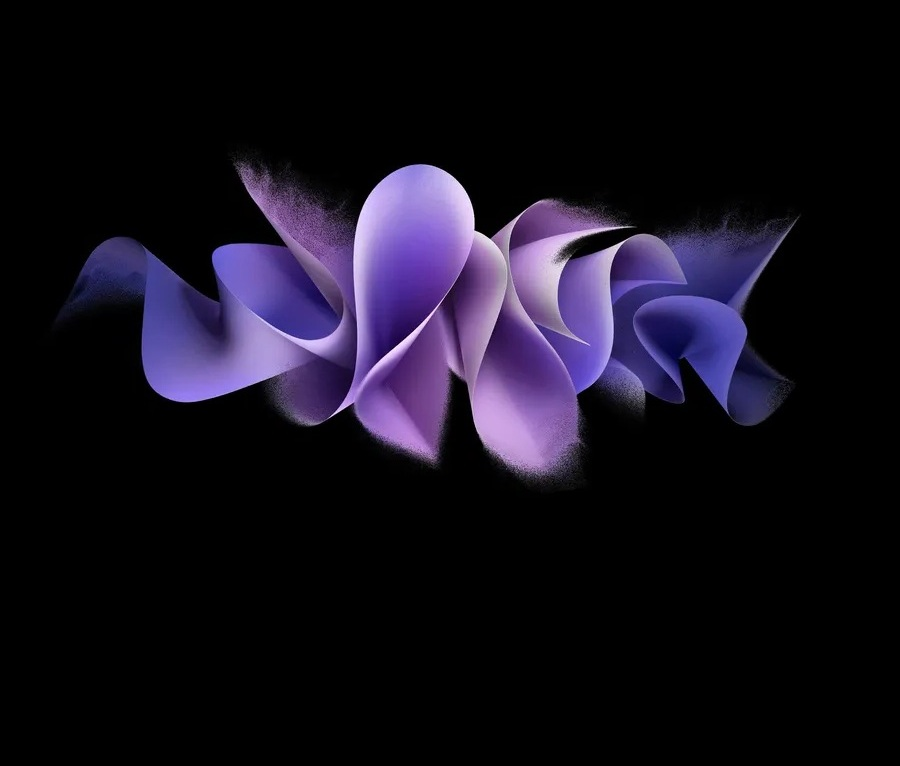
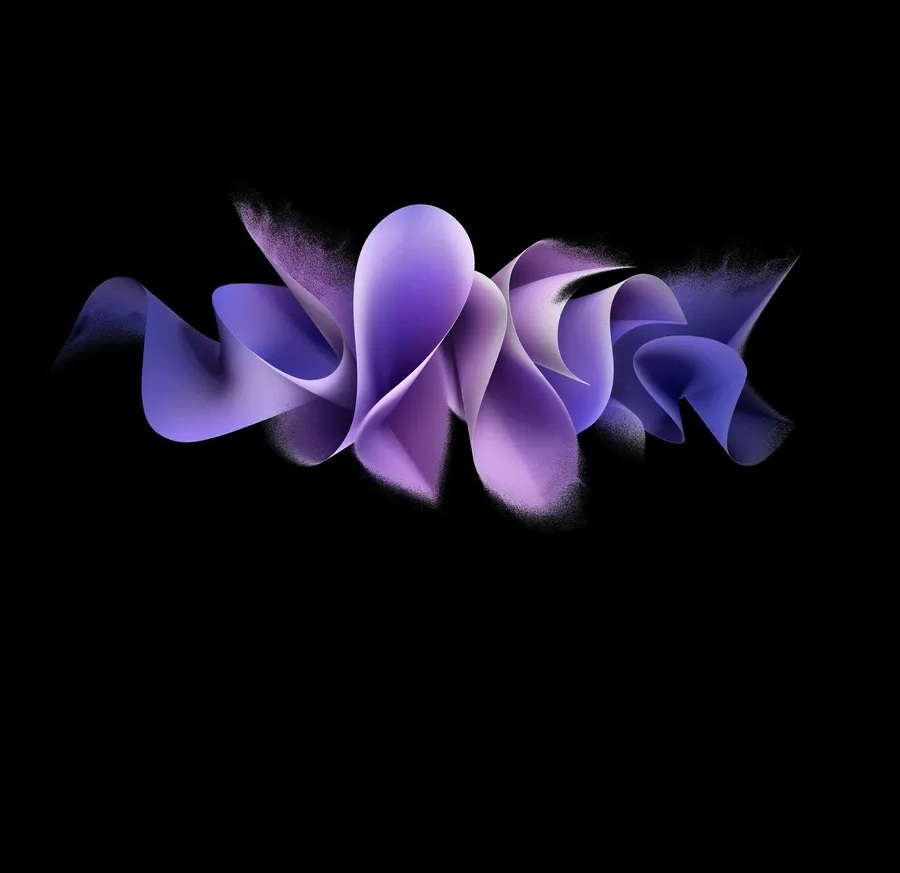
portfolio

diff --git a/src/css/style.css b/src/css/style.css
@@ -13,7 +13,7 @@ body {
     background-position: center;
     background-repeat: no-repeat;
     width: 100%; /* Ocupa toda a largura da viewport */
-    height: 100vh; /* Ocupa toda a altura da viewport */
+    height: 70vh; /* Ocupa toda a altura da viewport */
     margin: 0; /* Remove margens */
     padding: 0; /* Remove qualquer espaçamento extra */
     color: white; /* Para contrastar com o fundo */
@@ -107,7 +107,6 @@ section * {
         height: 150px; /* Ajusta a altura da imagem em telas menores */
     }
 }
-
 
 
 footer {
